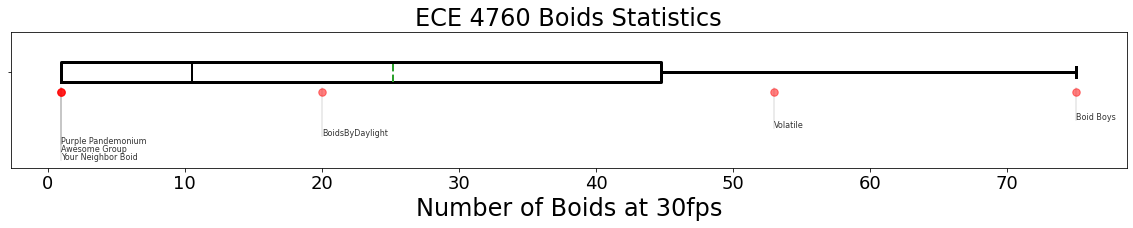
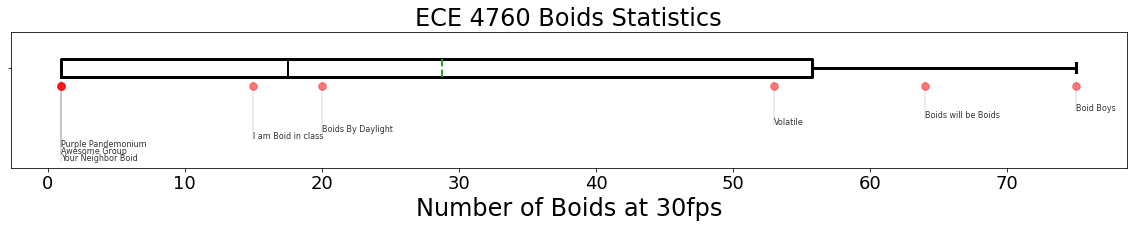
updated boid numbers

diff --git a/Boids/Boids_Numbers.html b/Boids/Boids_Numbers.html
@@ -13112,7 +13112,7 @@ div#notebook {
 </div>
 <div class="cell border-box-sizing code_cell rendered">
 <div class="input">
-<div class="prompt input_prompt">In&nbsp;[5]:</div>
+<div class="prompt input_prompt">In&nbsp;[7]:</div>
 <div class="inner_cell">
     <div class="input_area">
 <div class=" highlight hl-ipython3"><pre><span></span><span class="n">boids</span> <span class="o">=</span> <span class="p">{</span><span class="s1">&#39;Boid Boys&#39;</span><span class="p">:</span> <span class="mi">75</span><span class="p">,</span>
@@ -13120,7 +13120,9 @@ div#notebook {
          <span class="s1">&#39;Awesome Group&#39;</span><span class="p">:</span> <span class="mi">1</span><span class="p">,</span>
          <span class="s1">&#39;Your Neighbor Boid&#39;</span><span class="p">:</span> <span class="mi">1</span><span class="p">,</span>
          <span class="s1">&#39;Volatile&#39;</span><span class="p">:</span> <span class="mi">53</span><span class="p">,</span>
-         <span class="s1">&#39;BoidsByDaylight&#39;</span><span class="p">:</span> <span class="mi">20</span><span class="p">}</span>
+         <span class="s1">&#39;Boids By Daylight&#39;</span><span class="p">:</span> <span class="mi">20</span><span class="p">,</span>
+         <span class="s1">&#39;Boids will be Boids&#39;</span><span class="p">:</span> <span class="mi">64</span><span class="p">,</span>
+         <span class="s1">&#39;I am Boid in class&#39;</span><span class="p">:</span> <span class="mi">15</span><span class="p">}</span>
 <span class="n">boids</span> <span class="o">=</span> <span class="nb">dict</span><span class="p">(</span><span class="nb">sorted</span><span class="p">(</span><span class="n">boids</span><span class="o">.</span><span class="n">items</span><span class="p">(),</span> <span class="n">key</span><span class="o">=</span><span class="k">lambda</span> <span class="n">x</span><span class="p">:</span> <span class="n">x</span><span class="p">[</span><span class="mi">1</span><span class="p">],</span> <span class="n">reverse</span><span class="o">=</span><span class="kc">True</span><span class="p">))</span>
 </pre></div>
 
@@ -13138,7 +13140,7 @@ div#notebook {
 </div>
 <div class="cell border-box-sizing code_cell rendered">
 <div class="input">
-<div class="prompt input_prompt">In&nbsp;[6]:</div>
+<div class="prompt input_prompt">In&nbsp;[8]:</div>
 <div class="inner_cell">
     <div class="input_area">
 <div class=" highlight hl-ipython3"><pre><span></span><span class="n">plt</span><span class="o">.</span><span class="n">rcParams</span><span class="p">[</span><span class="s1">&#39;figure.figsize&#39;</span><span class="p">]</span> <span class="o">=</span> <span class="p">[</span><span class="mi">20</span><span class="p">,</span> <span class="mf">2.5</span><span class="p">]</span>
@@ -13185,7 +13187,7 @@ div#notebook {
 
 
 <div class="output_png output_subarea ">
[2 lines of base64/hex data omitted]
 "
 >
 </div>
